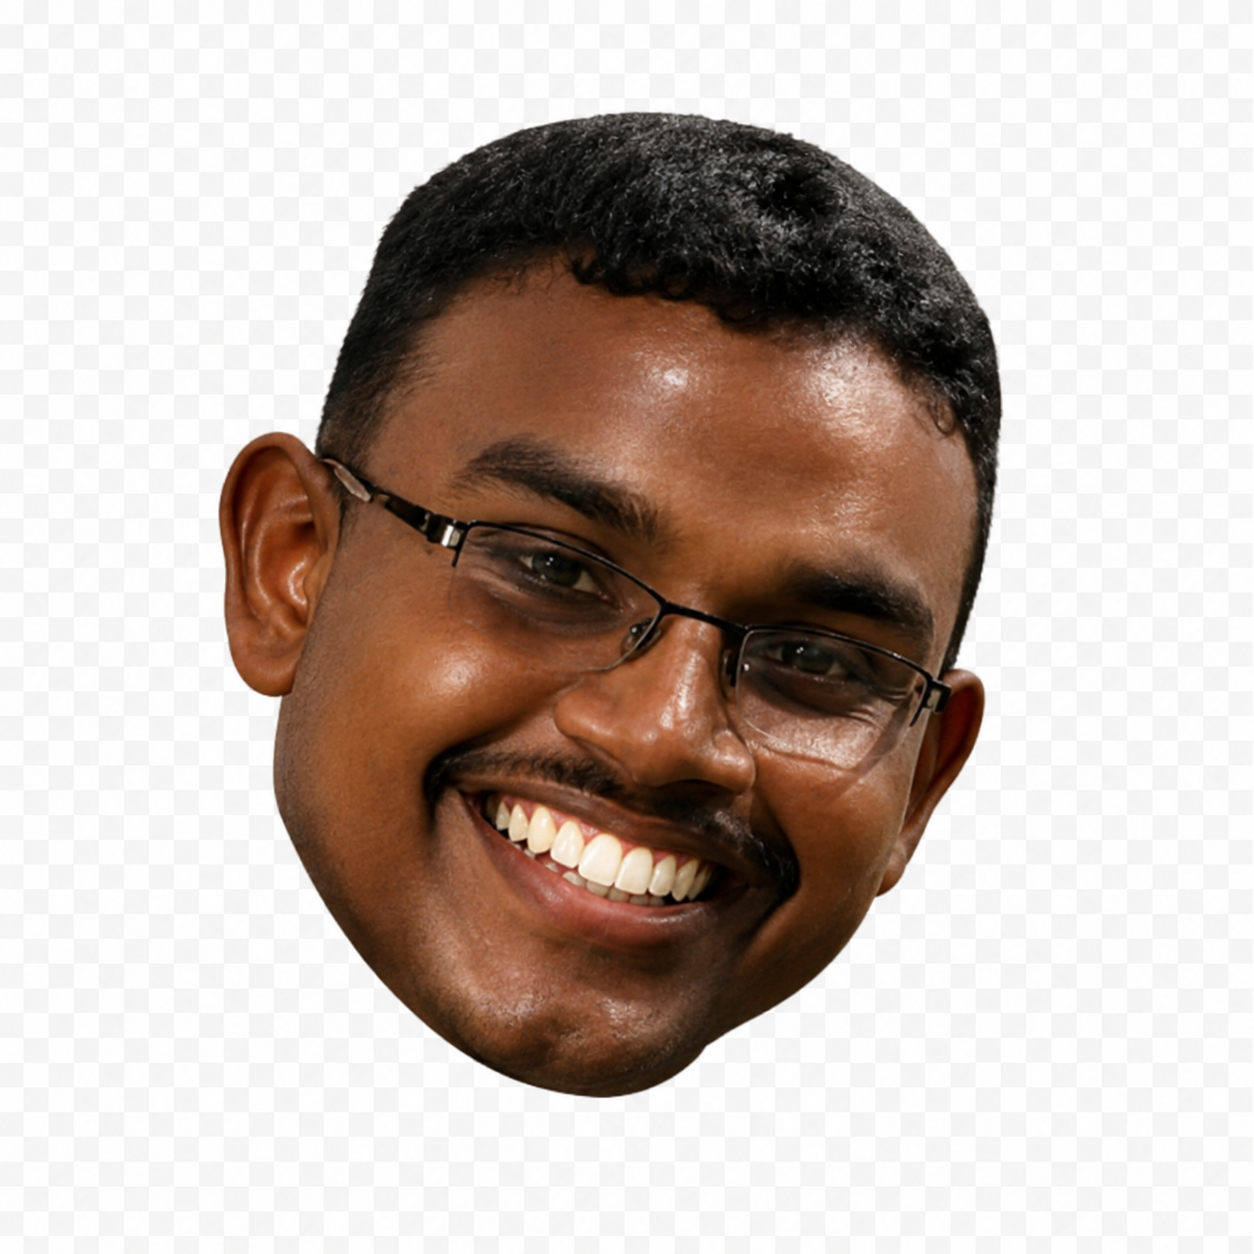
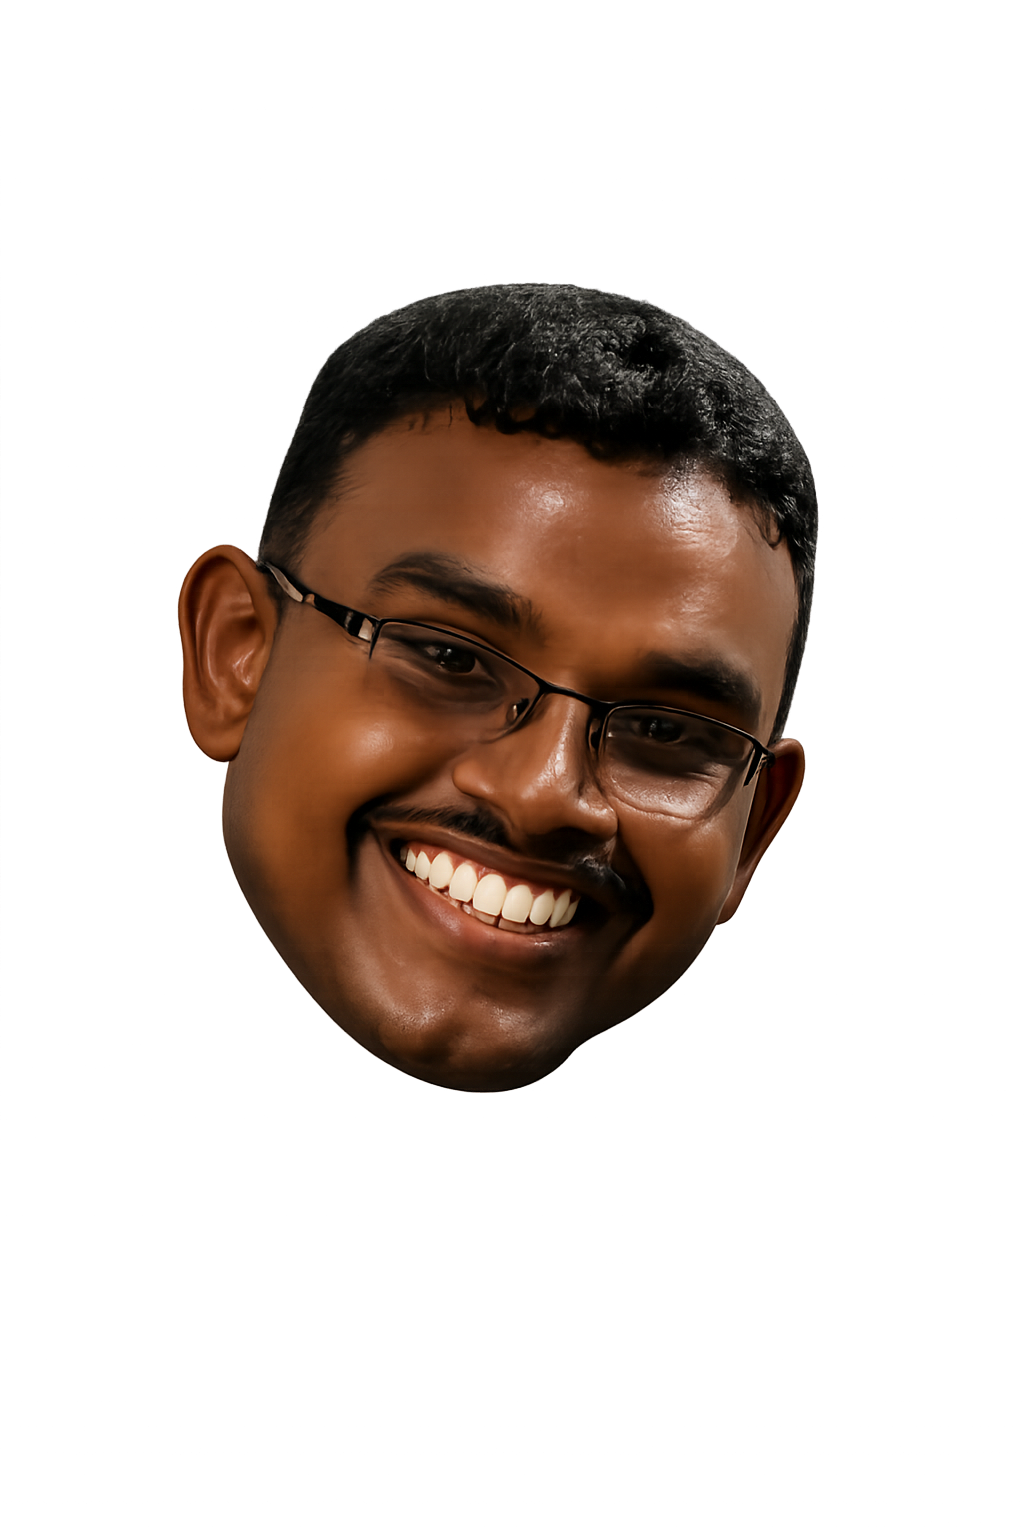
updated snake game

Changed region(s): [[0.1562, 0.0622, 0.8125, 0.9019]]

diff --git a/script.js b/script.js
@@ -21,14 +21,14 @@ const cobraSound = new Audio("assets/cobra.mp3");
 const bird = {
     x: 80,
     y: 250,
-    width: 60,
-    height: 60,
+    width: 70,
+    height: 70,
     velocity: 0,
-    gravity: 0.5,
-    jump: -9
+    gravity: 0.45,
+    jump: -7
 };
 
-// Pipes
+// Game Variables
 let pipes = [];
 let score = 0;
 let gameOver = false;
@@ -44,10 +44,8 @@ function flap() {
     cobraSound.play();
 }
 
-document.addEventListener("keydown", function(e) {
-    if (e.code === "Space") {
-        flap();
-    }
+document.addEventListener("keydown", (e) => {
+    if (e.code === "Space") flap();
 });
 
 canvas.addEventListener("click", flap);
@@ -57,22 +55,22 @@ function createPipe() {
 
     if (gameOver) return;
 
-    const gap = 170;
-    const topHeight = Math.floor(Math.random() * 220) + 60;
+    const gap = 140;
+    const topHeight = Math.floor(Math.random() * 180) + 80;
 
     pipes.push({
         x: canvas.width,
-        width: 80,
+        width: 100,
         top: topHeight,
         bottom: topHeight + gap,
         scored: false
     });
-
 }
 
-setInterval(createPipe, 1800);
+setInterval(createPipe, 1700);
 
-// Update
+// ================= UPDATE GAME =================
+
 function update() {
 
     if (gameOver) {
@@ -89,96 +87,117 @@ function update() {
         gameOver = true;
     }
 
-    ctx.clearRect(0,0,canvas.width,canvas.height);
+    ctx.clearRect(0, 0, canvas.width, canvas.height);
 
     // Background
-    ctx.drawImage(bg,0,0,canvas.width,canvas.height);
+    ctx.drawImage(bg, 0, 0, canvas.width, canvas.height);
 
     // Pipes
-    for(let i=0;i<pipes.length;i++){
+    for (let i = 0; i < pipes.length; i++) {
 
         let p = pipes[i];
-        p.x -= 3;
+
+        p.x -= 4;
 
         // Top Pipe
         ctx.save();
-        ctx.translate(p.x + p.width/2, p.top/2);
+        ctx.translate(p.x + p.width / 2, p.top / 2);
         ctx.rotate(Math.PI);
-        ctx.drawImage(pipe,-p.width/2,-p.top/2,p.width,p.top);
+        ctx.drawImage(pipe, -p.width / 2, -p.top / 2, p.width, p.top);
         ctx.restore();
 
         // Bottom Pipe
-        ctx.drawImage(pipe,p.x,p.bottom,p.width,canvas.height-p.bottom);
+        ctx.drawImage(pipe, p.x, p.bottom, p.width, canvas.height - p.bottom);
 
-        // Collision
-        if(
-            bird.x + bird.width > p.x &&
-            bird.x < p.x + p.width &&
-            (bird.y < p.top || bird.y + bird.height > p.bottom)
-        ){
+        // ===== PERFECT COLLISION =====
+        const hit = 18;
+
+        const birdLeft = bird.x + hit;
+        const birdRight = bird.x + bird.width - hit;
+        const birdTop = bird.y + hit;
+        const birdBottom = bird.y + bird.height - hit;
+
+        const pipeLeft = p.x;
+        const pipeRight = p.x + p.width;
+
+        if (
+            birdRight > pipeLeft &&
+            birdLeft < pipeRight &&
+            (birdTop < p.top || birdBottom > p.bottom)
+        ) {
             gameOver = true;
         }
 
         // Score
-        if(!p.scored && p.x + p.width < bird.x){
+        if (!p.scored && p.x + p.width < bird.x) {
             p.scored = true;
             score++;
 
-            if(score > highScore){
+            if (score > highScore) {
                 highScore = score;
-                localStorage.setItem("highScore",highScore);
+                localStorage.setItem("highScore", highScore);
             }
         }
     }
 
-    pipes = pipes.filter(p=>p.x+p.width>0);
+    // Remove old pipes
+    pipes = pipes.filter(p => p.x + p.width > 0);
 
-    // Bird
-    ctx.drawImage(head,bird.x,bird.y,bird.width,bird.height);
+    // Draw Bird
+    ctx.drawImage(head, bird.x, bird.y, bird.width, bird.height);
 
     // Score
-    ctx.fillStyle="white";
-    ctx.font="30px Arial";
-    ctx.fillText("Score : "+score,20,40);
+    ctx.fillStyle = "white";
+    ctx.font = "30px Arial";
+    ctx.fillText("Score : " + score, 20, 40);
 
-    ctx.fillStyle="yellow";
-    ctx.font="22px Arial";
-    ctx.fillText("High : "+highScore,20,70);
+    ctx.fillStyle = "yellow";
+    ctx.font = "22px Arial";
+    ctx.fillText("High : " + highScore, 20, 70);
 
     requestAnimationFrame(update);
 }
 
-// Game Over
-function drawGameOver(){
+// ================= GAME OVER SCREEN =================
 
-    ctx.fillStyle="rgba(0,0,0,0.6)";
-    ctx.fillRect(0,0,canvas.width,canvas.height);
+function drawGameOver() {
 
-    ctx.fillStyle="white";
-    ctx.font="40px Arial";
-    ctx.fillText("GAME OVER",70,220);
+    ctx.fillStyle = "rgba(0,0,0,0.6)";
+    ctx.fillRect(0, 0, canvas.width, canvas.height);
 
-    ctx.font="28px Arial";
-    ctx.fillText("Score : "+score,120,270);
+    ctx.fillStyle = "white";
+    ctx.font = "42px Arial";
+    ctx.fillText("GAME OVER", 70, 220);
 
-    ctx.fillStyle="red";
-    ctx.fillRect(110,320,180,60);
+    ctx.font = "28px Arial";
+    ctx.fillText("Score : " + score, 125, 270);
 
-    ctx.fillStyle="white";
-    ctx.font="24px Arial";
-    ctx.fillText("Click Restart",120,360);
+    ctx.fillText("High : " + highScore, 125, 310);
+
+    ctx.fillStyle = "#ff3333";
+    ctx.fillRect(110, 360, 180, 60);
+
+    ctx.fillStyle = "white";
+    ctx.font = "26px Arial";
+    ctx.fillText("RESTART", 135, 398);
 }
 
-// Restart
-canvas.addEventListener("click",function(){
+// ================= RESTART =================
 
-    if(gameOver){
+canvas.addEventListener("click", function () {
+
+    if (gameOver) {
         location.reload();
     }
 
 });
 
-// Start Game
-bg.onload = function(){
+// ================= START GAME =================
+
+Promise.all([
+    new Promise(resolve => bg.onload = resolve),
+    new Promise(resolve => head.onload = resolve),
+    new Promise(resolve => pipe.onload = resolve)
+]).then(() => {
     update();
-};
+});